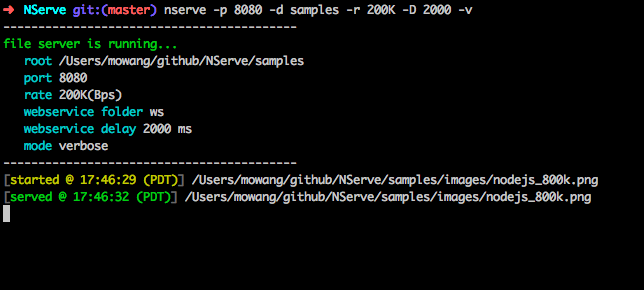
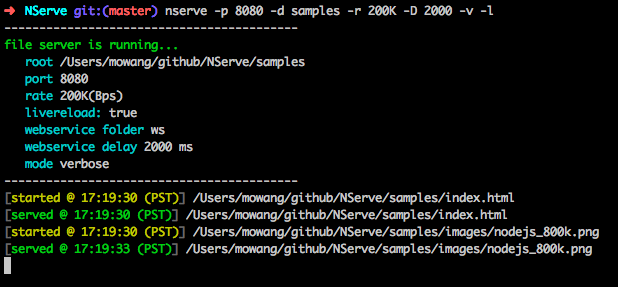
update read me

Changed region(s): [[0.0, 0.5575, 0.9838, 0.9477], [0.0, 0.0836, 0.4919, 0.5296], [0.0, 0.0, 0.7994, 0.0557]]

diff --git a/samples/readme.html b/samples/readme.html
@@ -1,71 +1,282 @@
-<link rel="stylesheet" href="css/markdown.css">
-<script type="text/javascript" src="js/readme.js"></script>
+<!DOCTYPE html>
+<html>
+<head>
+    <title>Monroe</title>
+    <style type="text/css">
+        body{
+            margin: 0 auto;
+            font-family: Georgia, Palatino, serif;
+            color: #444444;
+            line-height: 1;
+            max-width: 960px;
+            padding: 30px;
+        }
+        h1, h2, h3, h4 {
+            color: #111111;
+            font-weight: 400;
+        }
+        h1, h2, h3, h4, h5, p {
+            margin-bottom: 24px;
+            padding: 0;
+        }
+        h1 {
+            font-size: 48px;
+        }
+        h2 {
+            font-size: 36px;
+            /* The bottom margin is small. It's designed to be used with gray meta text
+             * below a post title. */
+            margin: 24px 0 6px;
+        }
+        h3 {
+            font-size: 24px;
+        }
+        h4 {
+            font-size: 21px;
+        }
+        h5 {
+            font-size: 18px;
+        }
+        a {
+            color: #0099ff;
+            margin: 0;
+            padding: 0;
+            vertical-align: baseline;
+        }
+        a:hover {
+            text-decoration: none;
+            color: #ff6600;
+        }
+        a:visited {
+            color: purple;
+        }
+        ul, ol {
+            padding: 0;
+            margin: 0;
+        }
+        li {
+            line-height: 24px;
+        }
+        li ul, li ul {
+            margin-left: 24px;
+        }
+        p, ul, ol {
+            font-size: 16px;
+            line-height: 24px;
+            max-width: 540px;
+        }
+        pre {
+            padding: 0px 24px;
+            max-width: 800px;
+            white-space: pre-wrap;
+        }
+        code {
+            font-family: Consolas, Monaco, Andale Mono, monospace;
+            line-height: 1.5;
+            font-size: 13px;
+        }
+        aside {
+            display: block;
+            float: right;
+            width: 390px;
+        }
+        blockquote {
+            border-left:.5em solid #eee;
+            padding: 0 2em;
+            margin-left:0;
+            max-width: 476px;
+        }
+        blockquote  cite {
+            font-size:14px;
+            line-height:20px;
+            color:#bfbfbf;
+        }
+        blockquote cite:before {
+            content: '\2014 \00A0';
+        }
 
-<p>NServe is a nodejs-powered static file server that is created to facilitate local software development. It is not designed for production use. </p>
+        blockquote p {  
+            color: #666;
+            max-width: 460px;
+        }
+        hr {
+            width: 540px;
+            text-align: left;
+            margin: 0 auto 0 0;
+            color: #999;
+        }
 
-<p><img src="https://github.com/marty-wang/NServe/raw/master/screenshots/terminal.png" alt="Terminal Screenshot" title="" /></p>
+        /* Code below this line is copyright Twitter Inc. */
 
-<h1>Features</h1>
+        button,
+        input,
+        select,
+        textarea {
+          font-size: 100%;
+          margin: 0;
+          vertical-align: baseline;
+          *vertical-align: middle;
+        }
+        button, input {
+          line-height: normal;
+          *overflow: visible;
+        }
+        button::-moz-focus-inner, input::-moz-focus-inner {
+          border: 0;
+          padding: 0;
+        }
+        button,
+        input[type="button"],
+        input[type="reset"],
+        input[type="submit"] {
+          cursor: pointer;
+          -webkit-appearance: button;
+        }
+        input[type=checkbox], input[type=radio] {
+          cursor: pointer;
+        }
+        /* override default chrome & firefox settings */
+        input:not([type="image"]), textarea {
+          -webkit-box-sizing: content-box;
+          -moz-box-sizing: content-box;
+          box-sizing: content-box;
+        }
 
-<ul>
-<li>Easy and Fast. One command and serve away.</li>
-<li>Allow user-defined transfer rate to mimck the real situations.</li>
-<li>Delay cross-domain mock web services, including GET and POST. </li>
-<li>More to come...</li>
-</ul>
+        input[type="search"] {
+          -webkit-appearance: textfield;
+          -webkit-box-sizing: content-box;
+          -moz-box-sizing: content-box;
+          box-sizing: content-box;
+        }
+        input[type="search"]::-webkit-search-decoration {
+          -webkit-appearance: none;
+        }
+        label,
+        input,
+        select,
+        textarea {
+          font-family: "Helvetica Neue", Helvetica, Arial, sans-serif;
+          font-size: 13px;
+          font-weight: normal;
+          line-height: normal;
+          margin-bottom: 18px;
+        }
+        input[type=checkbox], input[type=radio] {
+          cursor: pointer;
+          margin-bottom: 0;
+        }
+        input[type=text],
+        input[type=password],
+        textarea,
+        select {
+          display: inline-block;
+          width: 210px;
+          padding: 4px;
+          font-size: 13px;
+          font-weight: normal;
+          line-height: 18px;
+          height: 18px;
+          color: #808080;
+          border: 1px solid #ccc;
+          -webkit-border-radius: 3px;
+          -moz-border-radius: 3px;
+          border-radius: 3px;
+        }
+        select, input[type=file] {
+          height: 27px;
+          line-height: 27px;
+        }
+        textarea {
+          height: auto;
+        }
 
-<h1>Installation</h1>
+        /* grey out placeholders */
+        :-moz-placeholder {
+          color: #bfbfbf;
+        }
+        ::-webkit-input-placeholder {
+          color: #bfbfbf;
+        }
 
-<pre><code>    npm install nserve -g
-</code></pre>
+        input[type=text],
+        input[type=password],
+        select,
+        textarea {
+          -webkit-transition: border linear 0.2s, box-shadow linear 0.2s;
+          -moz-transition: border linear 0.2s, box-shadow linear 0.2s;
+          transition: border linear 0.2s, box-shadow linear 0.2s;
+          -webkit-box-shadow: inset 0 1px 3px rgba(0, 0, 0, 0.1);
+          -moz-box-shadow: inset 0 1px 3px rgba(0, 0, 0, 0.1);
+          box-shadow: inset 0 1px 3px rgba(0, 0, 0, 0.1);
+        }
+        input[type=text]:focus, input[type=password]:focus, textarea:focus {
+          outline: none;
+          border-color: rgba(82, 168, 236, 0.8);
+          -webkit-box-shadow: inset 0 1px 3px rgba(0, 0, 0, 0.1), 0 0 8px rgba(82, 168, 236, 0.6);
+          -moz-box-shadow: inset 0 1px 3px rgba(0, 0, 0, 0.1), 0 0 8px rgba(82, 168, 236, 0.6);
+          box-shadow: inset 0 1px 3px rgba(0, 0, 0, 0.1), 0 0 8px rgba(82, 168, 236, 0.6);
+        }
 
-<p>or install the development version from source code</p>
-
-<pre><code>    npm install {source code folder} -g
-</code></pre>
-
-<h1>Usage</h1>
-
-<p>In the folder where you want to serve the files. Run the command below. </p>
-
-<p><strong>nserve</strong> [options]</p>
-
-<p>Options:</p>
-
-<pre><code>    -h, --help                                  output usage information
+        /* buttons */
+        button {
+          display: inline-block;
+          padding: 4px 14px;
+          font-family: "Helvetica Neue", Helvetica, Arial, sans-serif;
+          font-size: 13px;
+          line-height: 18px;
+          -webkit-border-radius: 4px;
+          -moz-border-radius: 4px;
+          border-radius: 4px;
+          -webkit-box-shadow: inset 0 1px 0 rgba(255, 255, 255, 0.2), 0 1px 2px rgba(0, 0, 0, 0.05);
+          -moz-box-shadow: inset 0 1px 0 rgba(255, 255, 255, 0.2), 0 1px 2px rgba(0, 0, 0, 0.05);
+          box-shadow: inset 0 1px 0 rgba(255, 255, 255, 0.2), 0 1px 2px rgba(0, 0, 0, 0.05);
+          background-color: #0064cd;
+          background-repeat: repeat-x;
+          background-image: -khtml-gradient(linear, left top, left bottom, from(#049cdb), to(#0064cd));
+          background-image: -moz-linear-gradient(top, #049cdb, #0064cd);
+          background-image: -ms-linear-gradient(top, #049cdb, #0064cd);
+          background-image: -webkit-gradient(linear, left top, left bottom, color-stop(0%, #049cdb), color-stop(100%, #0064cd));
+          background-image: -webkit-linear-gradient(top, #049cdb, #0064cd);
+          background-image: -o-linear-gradient(top, #049cdb, #0064cd);
+          background-image: linear-gradient(top, #049cdb, #0064cd);
+          color: #fff;
+          text-shadow: 0 -1px 0 rgba(0, 0, 0, 0.25);
+          border: 1px solid #004b9a;
+          border-bottom-color: #003f81;
+          -webkit-transition: 0.1s linear all;
+          -moz-transition: 0.1s linear all;
+          transition: 0.1s linear all;
+          border-color: #0064cd #0064cd #003f81;
+          border-color: rgba(0, 0, 0, 0.1) rgba(0, 0, 0, 0.1) rgba(0, 0, 0, 0.25);
+        }
+        button:hover {
+          color: #fff;
+          background-position: 0 -15px;
+          text-decoration: none;
+        }
+        button:active {
+          -webkit-box-shadow: inset 0 3px 7px rgba(0, 0, 0, 0.15), 0 1px 2px rgba(0, 0, 0, 0.05);
+          -moz-box-shadow: inset 0 3px 7px rgba(0, 0, 0, 0.15), 0 1px 2px rgba(0, 0, 0, 0.05);
+          box-shadow: inset 0 3px 7px rgba(0, 0, 0, 0.15), 0 1px 2px rgba(0, 0, 0, 0.05);
+        }
+        button::-moz-focus-inner {
+          padding: 0;
+          border: 0;
+        }
+    </style>
+</head>
+<body>
+    <p>NServe is a nodejs-powered static file server that is created to facilitate local software development. It is not designed for production use. </p>  <p><img src="https://github.com/marty-wang/NServe/raw/master/screenshots/terminal.png" alt="Terminal Screenshot"></p>  <h1>Features</h1> <ul><li>Easy and Fast. One command and serve away.</li><li>Allow user-defined transfer rate to mimck the real situations.</li><li>Delay cross-domain mock web services, including GET and POST.</li><li>Live reload HTML/CSS/JS files. No need to manually refersh browsers.</li><li>More to come... </li></ul> <h1>Installation</h1> <pre><code>    npm install nserve -g
+</code></pre> <p>or install the development version from source code</p>  <pre><code>    npm install {source code folder} -g
+</code></pre> <h1>Usage</h1> <p>In the folder where you want to serve the files. Run the command below. </p>  <p><strong>nserve</strong> [options]</p>  <p>Options:</p>  <pre><code>    -h, --help                                  output usage information
     -V, --version                               output the version number
     -p, --port &lt;n&gt;                              specify the port number [3000]
     -r, --rate &lt;bit rate&gt;                       specify the file transfer rate in Bps, e.g. 100K or 5M
     -v, --verbose                               enter verbose mode
     -d, --directory &lt;root&gt;                      specify the root directory, relative or absolute [current directory]
-    -w, --webservice-folder &lt;folder name&gt;       specify the web service folder name ["ws"]
+    -w, --webservice-folder &lt;folder name&gt;       specify the web service folder name [&quot;ws&quot;]
     -D, --webservice-delay &lt;n&gt;                  specify the delay of the web service in millisecond [0]
-</code></pre>
-
-<p>and open <a href="http://localhost:3000">http://localhost:3000</a> in your browser.</p>
-
-<h1>Tips</h1>
-
-<ul>
-<li><p><strong>How to use cross-domain mock web services?</strong></p>
-
-<p>In the command line you have the option to specify the folder name where all the web services data are stored. In the meantime all the http requests that have the URLs starting with this folder name will be considered as web service calls. For example, by default this folder is named as <strong><em>ws</em></strong>, if you have a file called data.json and another called error.json under the same <strong><em>ws</em></strong> folder, the <strong>GET</strong> request of http://localhost:3000/ws/data.json will have data.json returned as the payload for your ajax success callback, and the one of http://localhost:3000/ws/data.json?error=error.json will simulate the error situation and return error.json as payload for your ajax error callback. You can name these files howerever you want. You just need to make sure that the pairing data file and error file should stay under the same folder and the error file should be specified as the value of key <strong><em>error</em></strong> in the query.</p>
-
-<p>In the case of <strong>POST</strong> request, the principle is the same. The only difference is that the data.json file will mean the post result, and the error file should be put into the data body of request, as error=error.json, as opposed to in the query.</p>
-
-<p>For an example, please reference the <a href="https://github.com/marty-wang/NServe/blob/master/samples/ajax.html"><strong>ajax.html</strong></a> in the <strong>samples</strong> folder.</p>
-
-<p>Again, by default it defaults to <strong><em>ws</em></strong> folder for all the web services. But you can change to another folder in the command line with the option <strong>-w</strong> or <strong>--webservice-folder</strong>, and refer to that folder under the root where <strong><em>nserve</em></strong> is running.</p>
-
-<p>Also you have the ability to "slow down" the web services by using th option <strong>-D</strong> or <strong>--webservice-delay</strong>. You want to do that in the situation where you want to test your loader, for example.</p></li>
-</ul>
-
-<h1>License (MIT)</h1>
-
-<p>Copyright (c) 2011 Mo Wang &lt;<a href="&#109;&#x61;&#x69;&#108;&#x74;&#x6F;:&#x6D;&#x6F;&#x2E;&#111;&#x73;&#115;&#46;&#x77;&#x61;&#x6E;&#103;&#64;g&#x6D;&#x61;&#105;&#108;&#x2E;&#99;&#x6F;&#x6D;">&#x6D;&#x6F;&#x2E;&#111;&#x73;&#115;&#46;&#x77;&#x61;&#x6E;&#103;&#64;g&#x6D;&#x61;&#105;&#108;&#x2E;&#99;&#x6F;&#x6D;</a>></p>
-
-<p>Permission is hereby granted, free of charge, to any person obtaining a copy of this software and associated documentation files (the "Software"), to deal in the Software without restriction, including without limitation the rights to use, copy, modify, merge, publish, distribute, sublicense, and/or sell copies of the Software, and to permit persons to whom the Software is furnished to do so, subject to the following conditions:</p>
-
-<p>The above copyright notice and this permission notice shall be included in all copies or substantial portions of the Software.</p>
-
-<p>THE SOFTWARE IS PROVIDED "AS IS", WITHOUT WARRANTY OF ANY KIND, EXPRESS OR IMPLIED, INCLUDING BUT NOT LIMITED TO THE WARRANTIES OF MERCHANTABILITY, FITNESS FOR A PARTICULAR PURPOSE AND NONINFRINGEMENT. IN NO EVENT SHALL THE AUTHORS OR COPYRIGHT HOLDERS BE LIABLE FOR ANY CLAIM, DAMAGES OR OTHER LIABILITY, WHETHER IN AN ACTION OF CONTRACT, TORT OR OTHERWISE, ARISING FROM, OUT OF OR IN CONNECTION WITH THE SOFTWARE OR THE USE OR OTHER DEALINGS IN THE SOFTWARE.</p>
+    -l, --live-reload                           automatically reload HTML/CSS/JS files
+</code></pre> <p>and open <a href="http://localhost:3000">http://localhost:3000</a> in your browser.</p>  <h1>Tips</h1> <ul><li><strong>How to use cross-domain mock web services?</strong>  In the command line you have the option to specify the folder name where all the web services data are stored. In the meantime all the http requests that have the URLs starting with this folder name will be considered as web service calls. For example, by default this folder is named as <strong><em>ws</em></strong>, if you have a file called data.json and another called error.json under the same <strong><em>ws</em></strong> folder, the <strong>GET</strong> request of http://localhost:3000/ws/data.json will have data.json returned as the payload for your ajax success callback, and the one of http://localhost:3000/ws/data.json?error=error.json will simulate the error situation and return error.json as payload for your ajax error callback. You can name these files howerever you want. You just need to make sure that the pairing data file and error file should stay under the same folder and the error file should be specified as the value of key <strong><em>error</em></strong> in the query.  In the case of <strong>POST</strong> request, the principle is the same. The only difference is that the data.json file will mean the post result, and the error file should be put into the data body of request, as error=error.json, as opposed to in the query.  For an example, please reference the <a href="https://github.com/marty-wang/NServe/blob/master/samples/ajax.html"><strong>ajax.html</strong></a> in the <strong>samples</strong> folder.  Again, by default it defaults to <strong><em>ws</em></strong> folder for all the web services. But you can change to another folder in the command line with the option <strong>-w</strong> or <strong>--webservice-folder</strong>, and refer to that folder under the root where <strong><em>nserve</em></strong> is running.  Also you have the ability to &quot;slow down&quot; the web services by using th option <strong>-D</strong> or <strong>--webservice-delay</strong>. You want to do that in the situation where you want to test your loader, for example. </li></ul> <h1>License (MIT)</h1> <p>Copyright (c) 2011 Mo Wang &lt;<a href="&#109;&#97;&#x69;&#x6c;&#x74;&#111;&#x3a;&#109;&#x6f;&#x2e;&#x6f;&#115;&#115;&#x2e;&#x77;&#x61;&#110;&#103;&#64;&#x67;&#x6d;&#x61;&#x69;&#x6c;&#46;&#99;&#x6f;&#x6d;">&#109;&#x6f;&#x2e;&#x6f;&#115;&#115;&#x2e;&#x77;&#x61;&#110;&#103;&#64;&#x67;&#x6d;&#x61;&#x69;&#x6c;&#46;&#99;&#x6f;&#x6d;</a>&gt;</p>  <p>Permission is hereby granted, free of charge, to any person obtaining a copy of this software and associated documentation files (the &quot;Software&quot;), to deal in the Software without restriction, including without limitation the rights to use, copy, modify, merge, publish, distribute, sublicense, and/or sell copies of the Software, and to permit persons to whom the Software is furnished to do so, subject to the following conditions:</p>  <p>The above copyright notice and this permission notice shall be included in all copies or substantial portions of the Software.</p>  <p>THE SOFTWARE IS PROVIDED &quot;AS IS&quot;, WITHOUT WARRANTY OF ANY KIND, EXPRESS OR IMPLIED, INCLUDING BUT NOT LIMITED TO THE WARRANTIES OF MERCHANTABILITY, FITNESS FOR A PARTICULAR PURPOSE AND NONINFRINGEMENT. IN NO EVENT SHALL THE AUTHORS OR COPYRIGHT HOLDERS BE LIABLE FOR ANY CLAIM, DAMAGES OR OTHER LIABILITY, WHETHER IN AN ACTION OF CONTRACT, TORT OR OTHERWISE, ARISING FROM, OUT OF OR IN CONNECTION WITH THE SOFTWARE OR THE USE OR OTHER DEALINGS IN THE SOFTWARE.</p>
+</body>
+</html>
